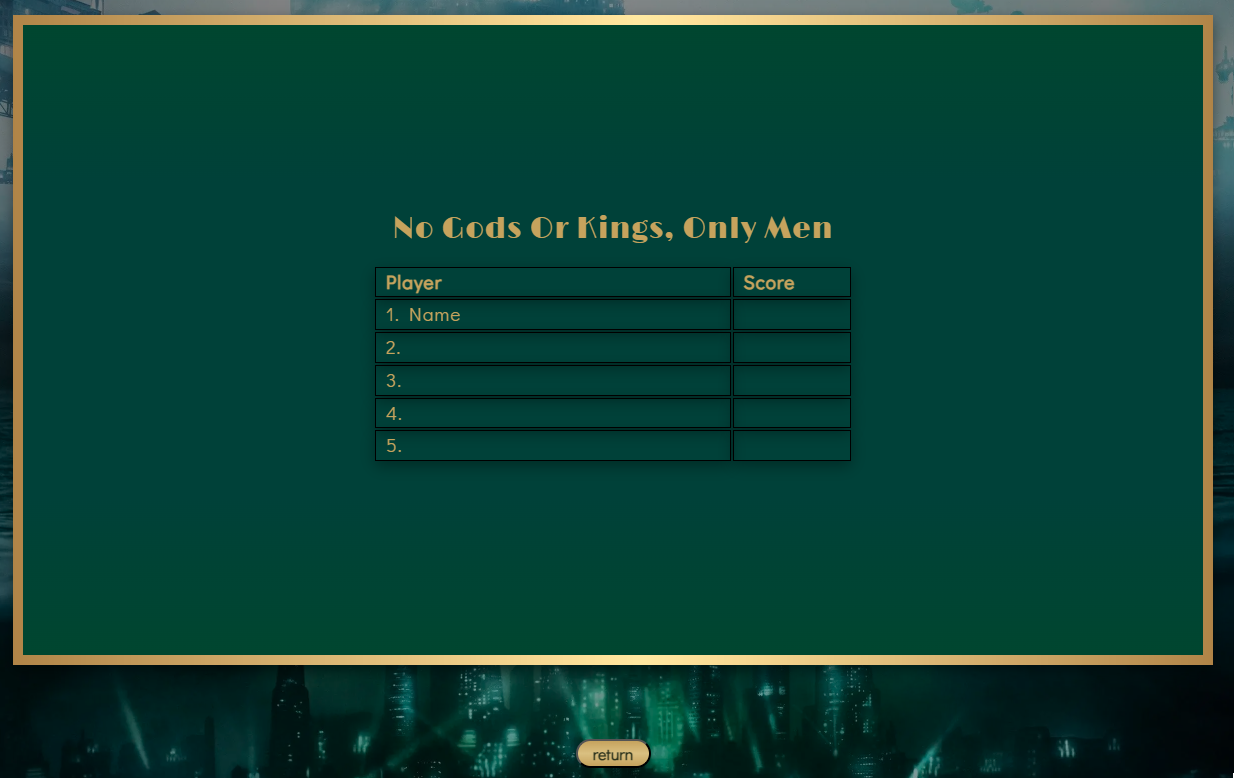
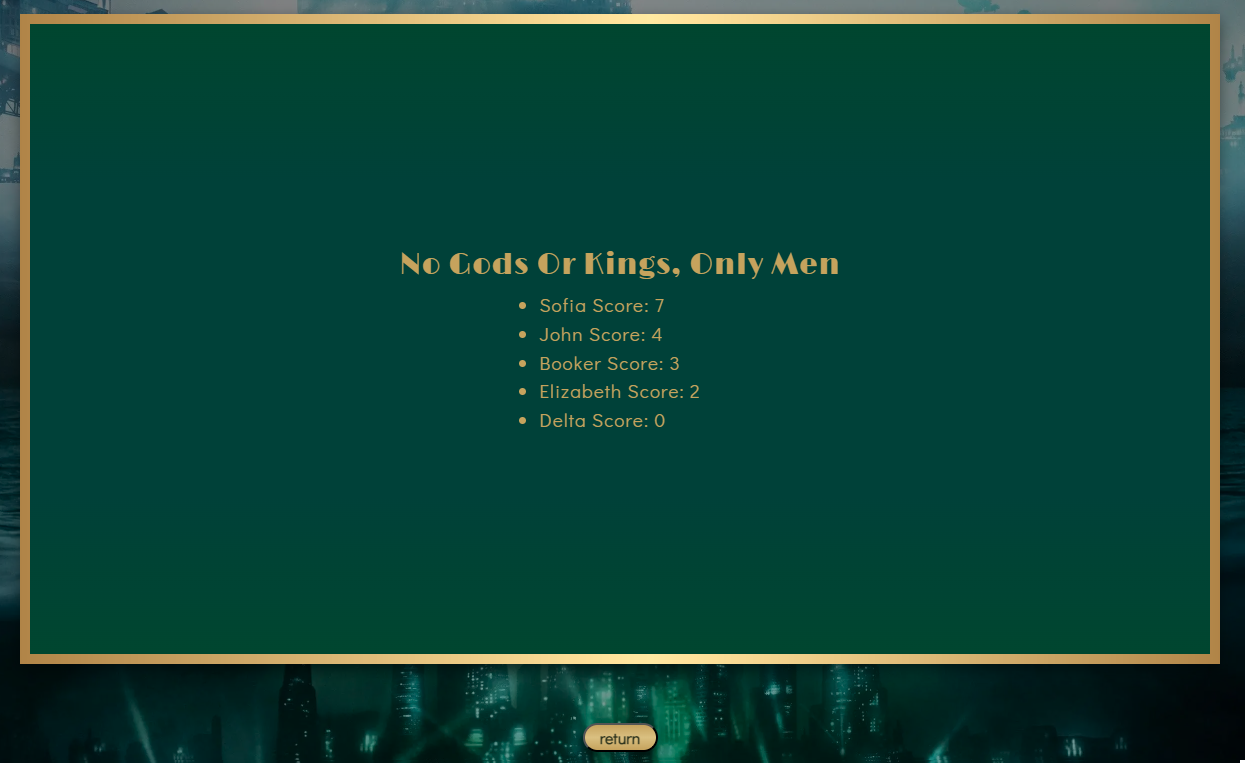
style: Remove table styles

diff --git a/assets/css/style.css b/assets/css/style.css
@@ -61,23 +61,6 @@ form {
     gap: 2px;
 }
 
-table {
-    width: 75%;
-    min-width: 270px;
-    padding: 10px;
-}
-
-th, td {
-    border: solid 1px black;
-    box-shadow: rgba(0, 0, 0, 0.35) 0 5px 15px;
-    height: 30px;
-    padding-left: 10px;
-}
-
-th {
-    font-weight: 600;
-}
-
 .nameLeaderboard {
     width: 75%;
     text-align: left;
@@ -477,11 +460,6 @@ th {
         bottom: 5%;
     }
 
-    table {
-        width: 80%;
-        min-width: 500px;
-        max-width: 650px;
-    }
 
     /* make quiz buttons larger */
     .in-game-btn {
